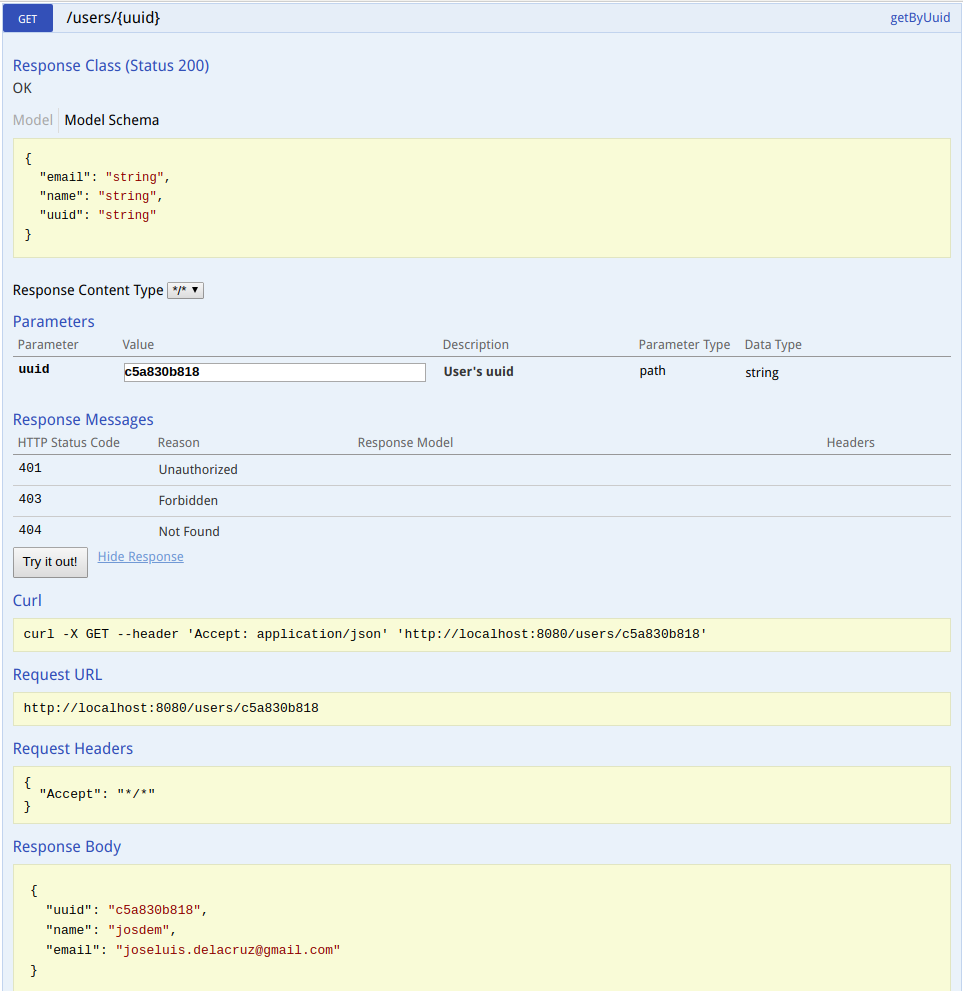
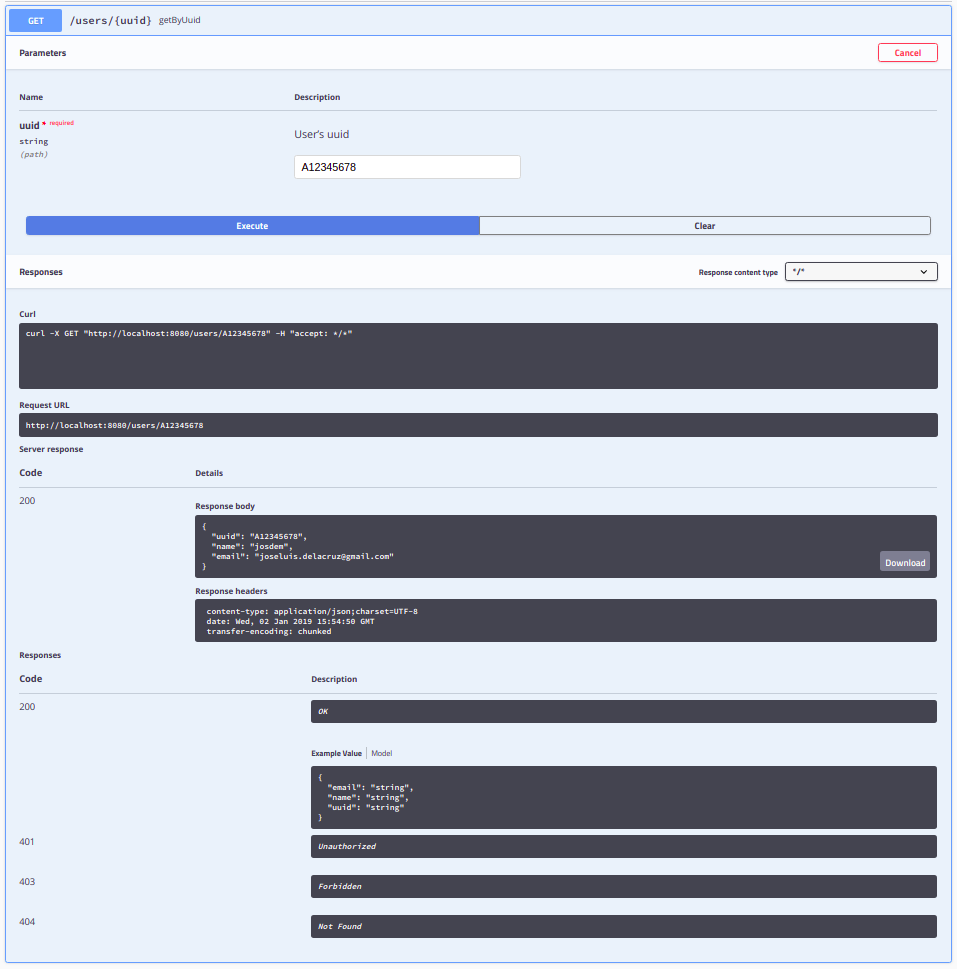
Updating swagger Spring Boot information

diff --git a/content/techtalk/spring/spring_swagger_boot_configuration.md b/content/techtalk/spring/spring_swagger_boot_configuration.md
@@ -13,7 +13,7 @@ Swagger is a simple yet powerful representation of your RESTful API. With Swagge
 Then execute this command in your terminal:
 
 ```groovy
-spring init --dependencies=web,lombok --language=java --build=gradle boot-configuration
+spring init --dependencies=web --language=java --build=gradle boot-configuration
 ```
 
 This is the `build.gradle` generated file:
@@ -21,38 +21,37 @@ This is the `build.gradle` generated file:
 
 ```groovy
 buildscript {
-	ext {
-    springBootVersion = '1.5.12.RELEASE'
-	}
-	repositories {
-		mavenCentral()
-	}
-	dependencies {
-		classpath("org.springframework.boot:spring-boot-gradle-plugin:${springBootVersion}")
-	}
+  ext {
+    springBootVersion = '2.1.1.RELEASE'
+    springfoxVersion = '2.9.2'
+  }
+  repositories {
+    mavenCentral()
+  }
+  dependencies {
+    classpath("org.springframework.boot:spring-boot-gradle-plugin:${springBootVersion}")
+  }
 }
 
 apply plugin: 'java'
 apply plugin: 'org.springframework.boot'
+apply plugin: 'io.spring.dependency-management'
 
 repositories {
-  mavenCentral()
+	mavenCentral()
 }
 
 dependencies {
-  compile 'org.springframework.boot:spring-boot-starter-web'
-  compile 'org.projectlombok:lombok'
-  testCompile 'org.springframework.boot:spring-boot-starter-test'
+  implementation 'org.springframework.boot:spring-boot-starter-web'
+  implementation "io.springfox:springfox-swagger2:${springfoxVersion}"
+  implementation "io.springfox:springfox-swagger-ui:${springfoxVersion}"
+  testImplementation 'org.springframework.boot:spring-boot-starter-test'
 }
 ```
 
 Then add swagger dependencies in your `build.gradle` file
 
 ```groovy
-ext {
-  springfoxVersion = '2.8.0'
-}
-
 dependencies {
   compile "io.springfox:springfox-swagger2:${springfoxVersion}"
   compile "io.springfox:springfox-swagger-ui:${springfoxVersion}"
@@ -88,11 +87,9 @@ public class SwaggerConfig {
 }
 ```
 
-Swagger 2 is enabled through the `@EnableSwagger2` annotation. After the [Docket](http://springfox.github.io/springfox/javadoc/2.7.0/index.html?springfox/documentation/spring/web/plugins/Docket.html) bean is defined, its `select()` method returns an instance of `ApiSelectorBuilder`, which provides a way to control the endpoints exposed by Swagger.
+Swagger 2 is enabled through the `@EnableSwagger2` annotation. With [Docket](http://springfox.github.io/springfox/javadoc/2.7.0/index.html?springfox/documentation/spring/web/plugins/Docket.html) bean definition we are able to provide methods for configuration, it has a `select()` method and returns an instance of `ApiSelectorBuilder`, which provides a way to control the endpoints exposed by Swagger. Predicates in `RequestHandlers` can be configured with the help of `RequestHandlerSelectors` and `PathSelectors`. Using `any()` for both will make documentation for your entire API available through Swagger.
 
-Predicates for selection of `RequestHandlers` can be configured with the help of `RequestHandlerSelectors` and `PathSelectors`. Using `any()` for both will make documentation for your entire API available through Swagger.
-
-## Controller Documentation
+**Controller Documentation**
 
 Now it is time to see the most common annotations in a `RestController` in order to create our API documentation.
 
@@ -200,19 +197,21 @@ public class UserCommand {
 }
 ```
 
-`@ApiModel` Provides additional information about Swagger models. This translates to the [Model Object](https://github.com/OAI/OpenAPI-Specification/blob/master/versions/1.2.md#527-model-object) in the Swagger Specification.
+`@ApiModel` Provides additional information about Swagger models. This translates to the [Model Object](https://github.com/OAI/OpenAPI-Specification/blob/master/versions/1.2.md#527-model-object) in the Swagger Specification. The endpoint to create request to your API using Swagger is: [http://localhost:8080/swagger-ui.html](http://localhost:8080/swagger-ui.html)
 
-The endpoint to create request to your API using Swagger is: [http://localhost:8080/swagger-ui.html](http://localhost:8080/swagger-ui.html)
+**Swagger Results**
 
-## Swagger Results
-
-**View**
+Let's start creating a new user.
 
 <img src="/img/techtalks/spring/swagger1.png">
+
+As you can see we have a Json as response with the new user created. So now we can call to retieve all users
 
 **Get all users**
 
 <img src="/img/techtalks/spring/swagger2.png">
+
+Finally, let's get a user by UUID
 
 **Get user by uuid**
 
